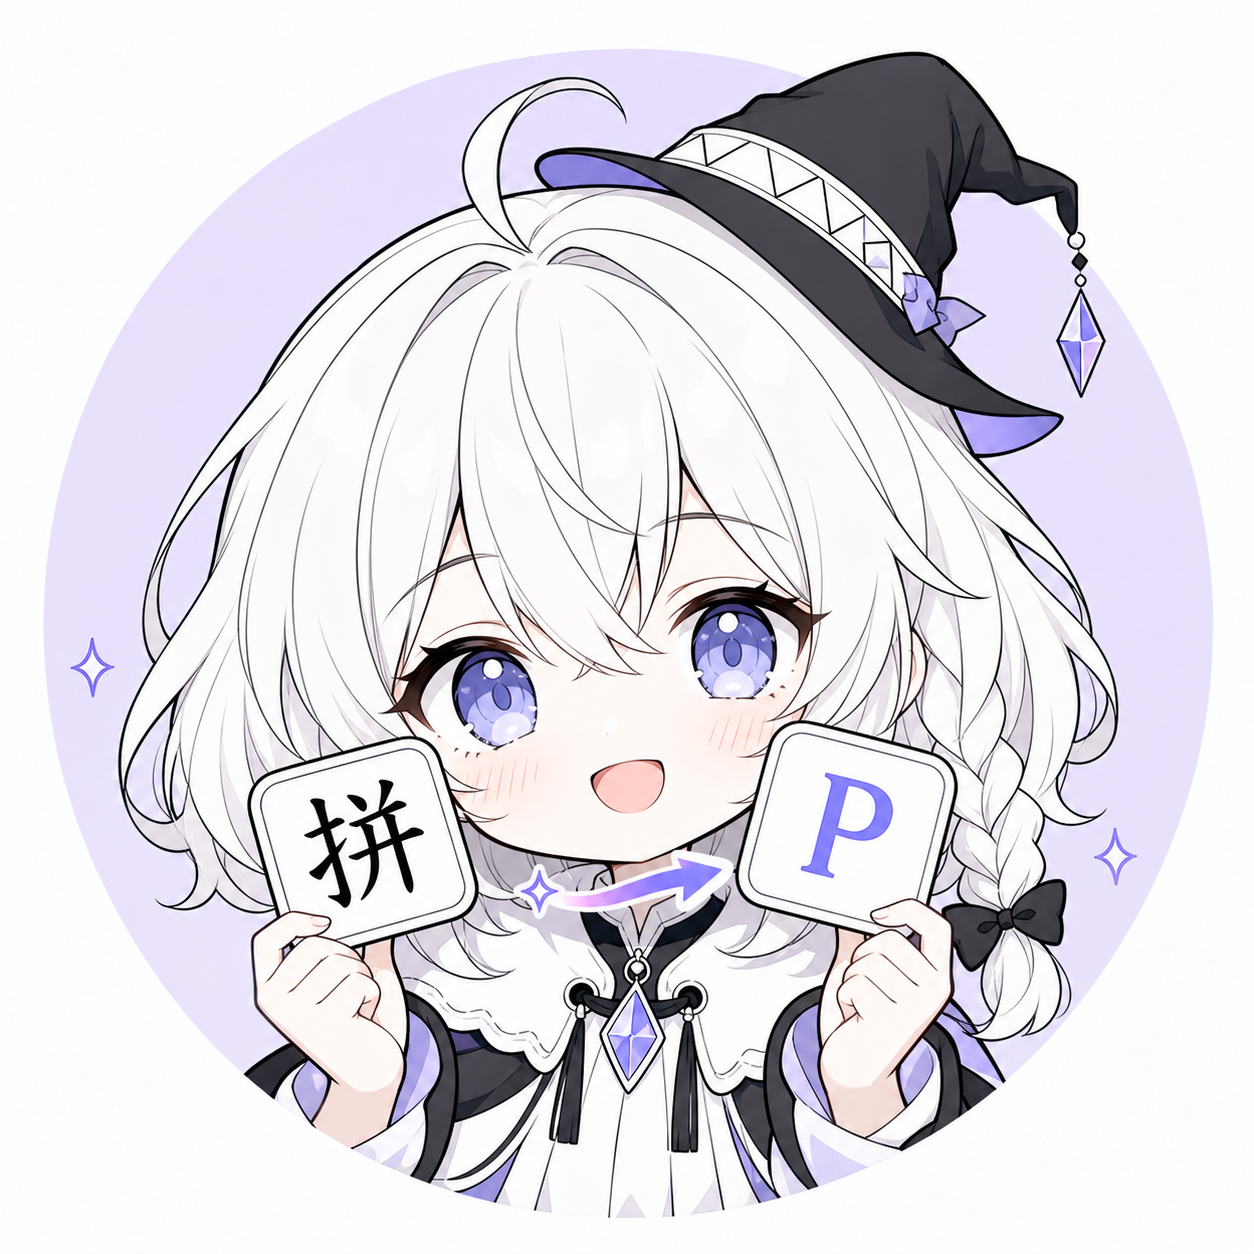
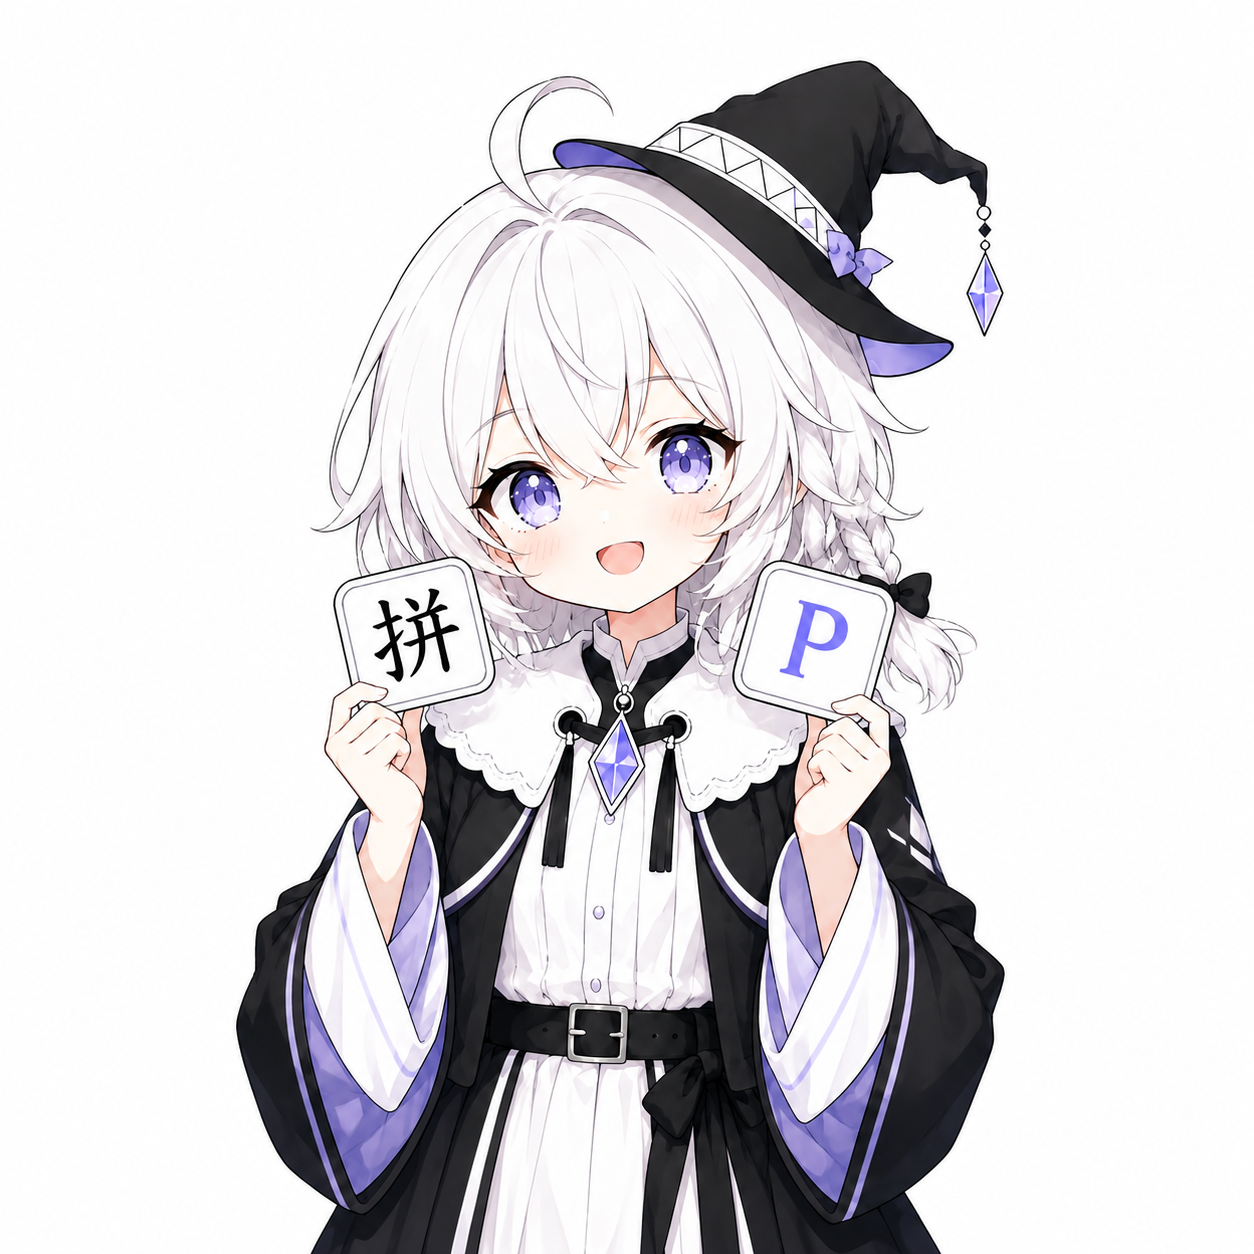
Refresh Pyfl brand with short-haired portrait

diff --git a/docs/brand.md b/docs/brand.md
@@ -1,0 +1,7 @@
+# Pyfl 品牌形象
+
+2026-09-07 品牌升级采用白色短发的小魔女近景：紫眼、侧辫与黑蝴蝶结、黑帽菱形带、紫晶及「拼 / P」字牌。突出脸部与自然表情，保持黑白与既有淡紫细节。
+
[1 lines of base64/hex data omitted]
+
+最终为短发；长发稿没有发布。原头像可从 Git 历史恢复。品牌图片和本文不在 npm 包 files 列表中，转换实现、包入口、版本和待发布 tarball 不因本轮视觉更新改变。完整生成 prompt 与素材压缩记录位于官网仓库 `docs/character-asset.md`。
